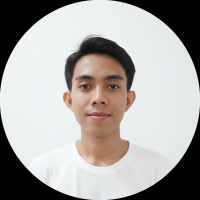
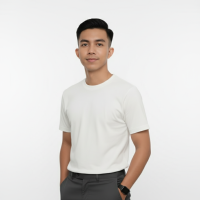
update

diff --git a/themes/hugo-ywz/assets/css/output.css b/themes/hugo-ywz/assets/css/output.css
@@ -463,9 +463,6 @@
   .z-\[101\] {
     z-index: 101;
   }
-  .z-\[9999\] {
-    z-index: 9999;
-  }
   .col-span-1 {
     grid-column: span 1 / span 1;
   }

diff --git a/content/journal/evaluasi/2026.md b/content/journal/evaluasi/2026.md
@@ -4,37 +4,9 @@ date: 2026-01-01
 draft: false
 ---
 
-target 2026
-
-ingin belajar hidup mandiri
-
-tinggal sendiri
-
-melakukan semuanya sendiri
-
-mengambil keputusan sendiri...
-
-...
-
-alasannya karena orang tua sudah semakin menua
-
-saya tidak bisa lagi terus bersandar dengannya
-
-suatu waktu akan ada saatnya saya harus melanjutkan kehidupan ini tanpanya
-
-...
-
-
-buat cv, lamar kerja, dapat kerja...
-
-...
-
-tinggalkan maksiat
-fokus youtube
-fokus ngontent
-jangan buat tool lagi
-lamar kerja yang banyak
-tinggalkan semua hal yang tidak berkaitan denga fokus saat ini, lupakan tool, lupakan hal yang tidak penting, 
-setiap hari fokus belajar youtube, belajar ngedit, belajar ngonten
-
-Selesaikan masalah yang ada di depan mata dulu.
+<style>#form_hash{display:flex;flex-direction:column;gap:20px}#key{padding:15px;border:2px solid #e0e0e0;border-radius:8px;font-size:16px;width:100%;box-sizing:border-box;transition:border-color .3s,box-shadow .3s}#key:focus{border-color:#007bff;outline:0;box-shadow:0 0 0 3px rgba(0,123,255,.2)}input[type=submit]{background-color:#007bff;color:#fff;padding:15px;border:none;border-radius:8px;cursor:pointer;font-size:18px;font-weight:700;letter-spacing:1px;transition:background-color .3s,transform .1s;box-shadow:0 5px 15px rgba(0,123,255,.3)}input[type=submit]:hover{background-color:#0056b3}input[type=submit]:active{transform:scale(.98)}</style>
+<div id=resultDecrypt><form id=form_hash><input autofocus id=key name=password placeholder="Masukan Kunci"> <input type=submit value=Buka></form></div>
+<script src="https://cdnjs.cloudflare.com/ajax/libs/crypto-js/3.1.9-1/crypto-js.js"></script>
+<script>
[1 lines of base64/hex data omitted]
+</script>

diff --git a/content/journal/2026/Februari/28 - Melihatnya Kembali dan Wajahnya terlihat berbeda/index.md b/content/journal/2026/Februari/28 - Melihatnya Kembali dan Wajahnya terlihat berbeda/index.md
@@ -7,5 +7,9 @@ location: Bogor, Indonesia
 draft: false
 ---
 
-tulisan rahasia xixixix
-
+<style>#form_hash{display:flex;flex-direction:column;gap:20px}#key{padding:15px;border:2px solid #e0e0e0;border-radius:8px;font-size:16px;width:100%;box-sizing:border-box;transition:border-color .3s,box-shadow .3s}#key:focus{border-color:#007bff;outline:0;box-shadow:0 0 0 3px rgba(0,123,255,.2)}input[type=submit]{background-color:#007bff;color:#fff;padding:15px;border:none;border-radius:8px;cursor:pointer;font-size:18px;font-weight:700;letter-spacing:1px;transition:background-color .3s,transform .1s;box-shadow:0 5px 15px rgba(0,123,255,.3)}input[type=submit]:hover{background-color:#0056b3}input[type=submit]:active{transform:scale(.98)}</style>
+<div id=resultDecrypt><form id=form_hash><input autofocus id=key name=password placeholder="Masukan Kunci"> <input type=submit value=Buka></form></div>
+<script src="https://cdnjs.cloudflare.com/ajax/libs/crypto-js/3.1.9-1/crypto-js.js"></script>
+<script>
[1 lines of base64/hex data omitted]
+</script>

diff --git a/content/journal/2026/Maret/07 - Sudah Masuk Pertengahan Puasa/index.md b/content/journal/2026/Maret/07 - Sudah Masuk Pertengahan Puasa/index.md
@@ -1,0 +1,24 @@
+---
+title: Sudah masuk pertengahan puasa
+slug: Sudah masuk pertengahan puasa
+date: 2026-03-07T05:00:35+07:00
+weather: Hujan
+location: Bogor, Indonesia
+draft: false
+---
+
+Tidak terasa bulan puasa sudah dipertengahan
+
+tinggal 2 minggu lagi sudah mau berakhir
+
+menjelang lebaran saya sepertinya dirumah saja tidak kemana-mana
+
+...
+
+kondisi ekonomi sedang tidak baik baik saja, uang yang tersisa tidak cukup untuk beli keperluan ini dan itu
+
+melihat sudah lama tidak bekerja dan tidak ada yang masuk ke-rekening, rasanya nafas menjadi berat, melangkah kemanapun rasanya sulit...
+
+...
+
+> mengeluh dikit tidak apa, sudah sifat alami manusia seperti itu

diff --git a/README.md b/README.md
@@ -4,10 +4,3 @@ Situs personal yang dibuat menggunakan hugo
 ![preview](irfanywz.web.id.avif)
 
 ## Todo
-- x
-
-## Catatan
-
-**Halaman yang pakai logika harcode buat nampilinnya**
-- learn/
-- research/
